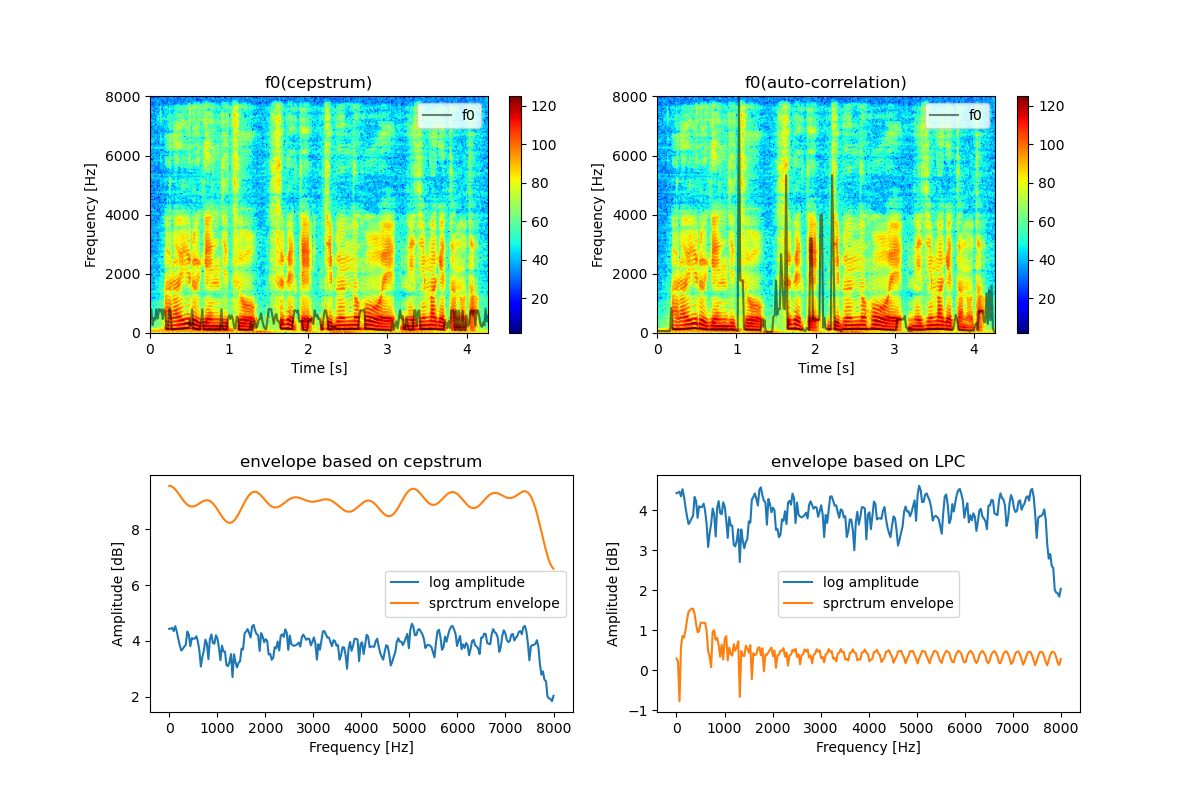
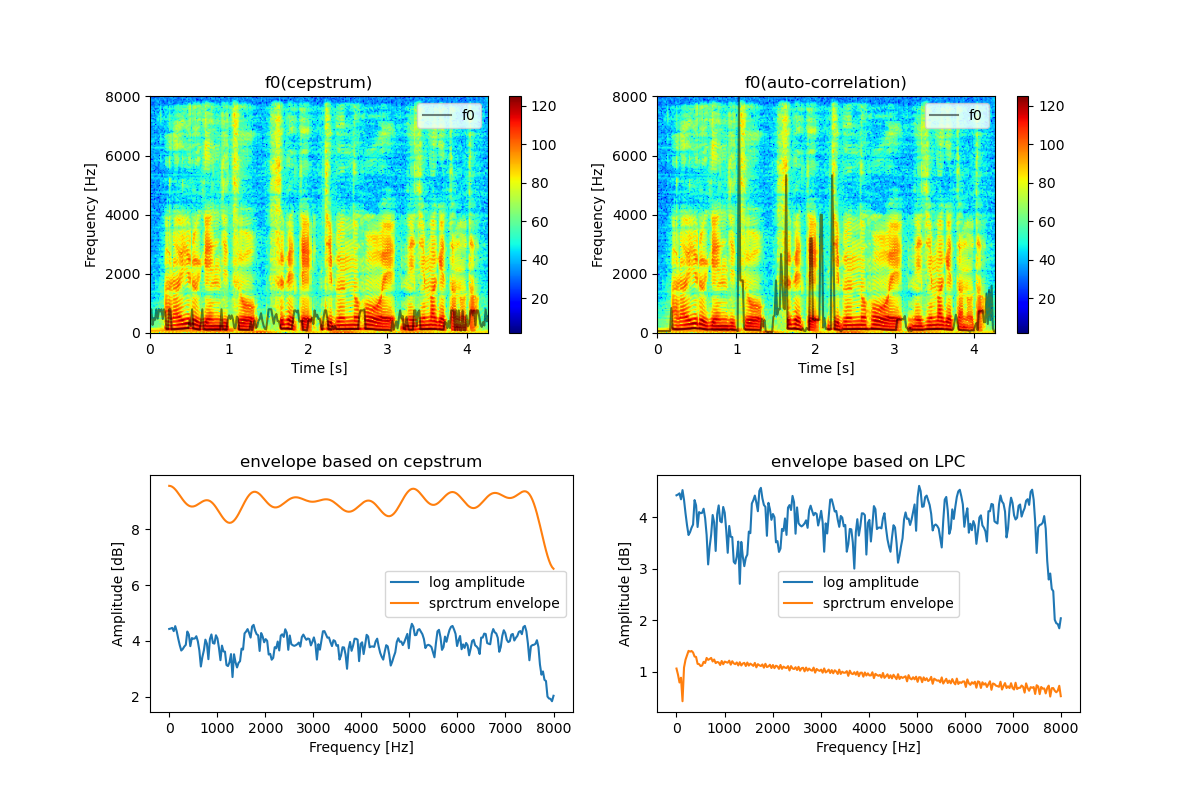
画像名が逆になっていたのを修正

Changed region(s): [[0.555, 0.5938, 0.8942, 0.7812], [0.555, 0.75, 0.8942, 0.875], [0.4933, 0.6875, 0.5242, 0.8125]]

diff --git a/ex4/sawada/my_functions/envelope.py b/ex4/sawada/my_functions/envelope.py
@@ -39,10 +39,10 @@ def envelope_lpc(data, p, fs):
     # TODO: docstring
     auto_correlation = f0.auto_correlation(data)
     
-    alphas = solve_toeplitz(auto_correlation[:p],
-                            -auto_correlation[1:p + 1])
-    # alphas = scipy.linalg.solve_toeplitz(auto_correlation[:p],
-    #                                      -auto_correlation[1:p + 1])
+    # alphas = solve_toeplitz(auto_correlation[:p],
+    #                         -auto_correlation[1:p + 1])
+    alphas = scipy.linalg.solve_toeplitz(auto_correlation[:p],
+                                         -auto_correlation[1:p + 1])
     alphas = np.append([1], alphas)  # add constant term
     w, h = scipy.signal.freqz(1, alphas, fs=fs)
     

diff --git a/ex4/sawada/main.py b/ex4/sawada/main.py
@@ -87,4 +87,4 @@ if __name__ == "__main__":
     ax4.legend()
     
     plt.show()
-    fig.savefig("result_scipy.png")
+    fig.savefig("result_voice_scipy.png")
